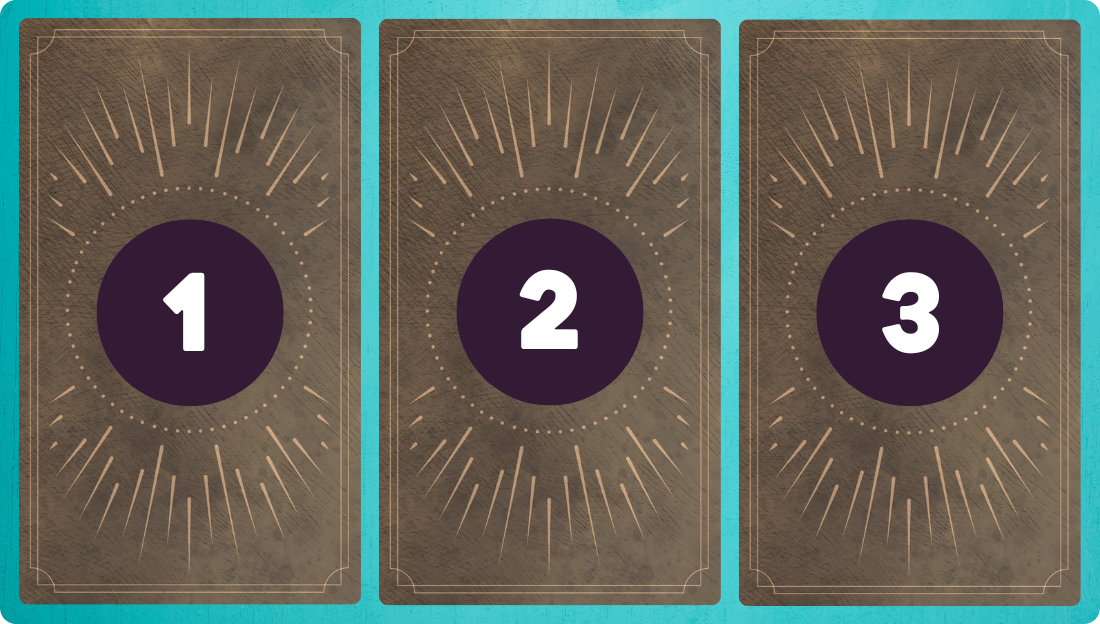
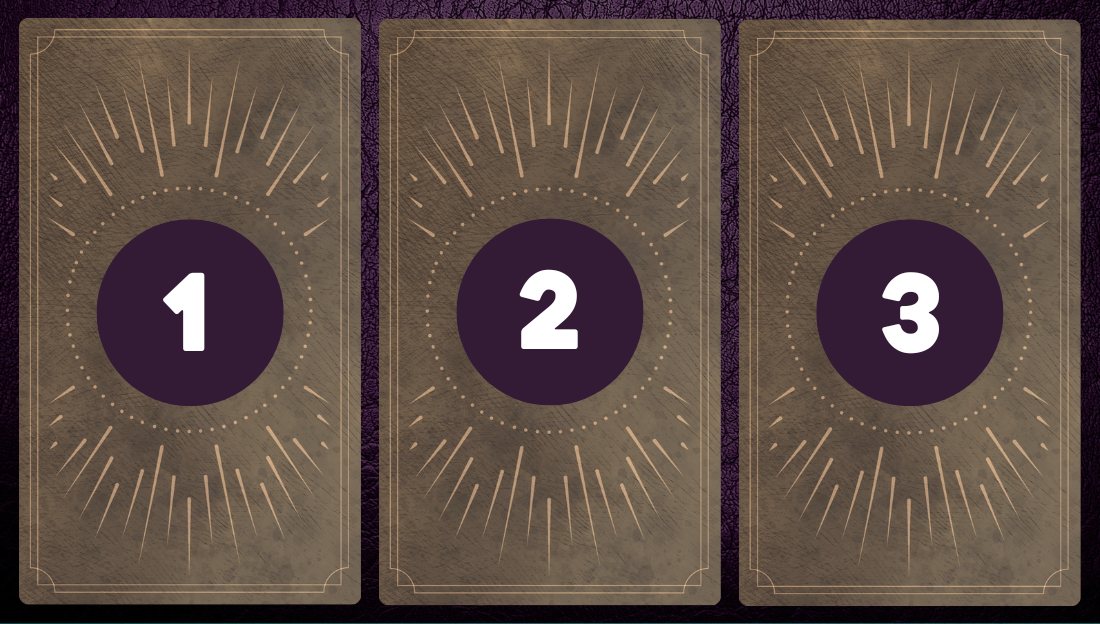
refactor: clean code on wonderPick flow

Changed region(s): [[0.0, 0.0, 1.0, 1.0]]

diff --git a/apps/bot/src/events/collectors/wonderPickSelect.ts b/apps/bot/src/events/collectors/wonderPickSelect.ts
@@ -1,4 +1,5 @@
-import { getImage } from '~/utils';
+import { BACK_IMG_URL, BG_IMG_URL, FOIL_IMG_URL, RESULT_WONDER_PICK_IMG_NAME } from '~/common';
+import { mergeImages } from '~/utils';
 import type { UserCardWithCard } from '../../commands/tcg/open-pack';
 import type { ButtonInteraction, SelectMenuInteraction, StringSelectMenuInteraction, TextChannel } from 'discord.js';
 import { AttachmentBuilder, ComponentType } from 'discord.js';
@@ -25,10 +26,6 @@ export const wonderPickSelect = ({ interaction, cards }: WonderPickSelectOptions
         const selectedCardIndex = parseInt(selectedValue, 10) - 1; // Convertir a índice
         const selectedCard = cards[selectedCardIndex];
 
-        console.log('** selectedCard **', selectedCard);
-        console.log('** selectedCardIndex **', selectedCardIndex);
-        console.log('** selectedValue **', selectedValue);
-
         if (!selectedCard) {
           await selectInteraction.editReply({
             content: 'La carta seleccionada no está disponible.',
@@ -36,16 +33,22 @@ export const wonderPickSelect = ({ interaction, cards }: WonderPickSelectOptions
           return;
         }
 
-        // Enviar la carta seleccionada al usuario
-        const cardImageBuffer = await getImage(selectedCard.card.image);
-        // console.log('** cardImageBuffer **', cardImageBuffer);
-        const cardAttachment = new AttachmentBuilder(cardImageBuffer, { name: 'selected-card.png' });
+        const totalCards = cards.length;
+        const imageUrls: Array<string> = [];
+        const foilFlags: Array<boolean> = [];
 
-        //console.log('** cardAttachment **', cardAttachment);
+        for (let i = 0; i < totalCards; i++) {
+          imageUrls.push(i === selectedCardIndex ? selectedCard.card.image : BACK_IMG_URL);
+          foilFlags.push(i === selectedCardIndex ? selectedCard.isFoil : false);
+        }
+
+        // Convert the image to buffer
+        const buffer = await mergeImages(imageUrls, foilFlags, FOIL_IMG_URL, BG_IMG_URL);
+        const attachment = new AttachmentBuilder(buffer, { name: RESULT_WONDER_PICK_IMG_NAME });
 
         await selectInteraction.editReply({
           content: `¡Has seleccionado la carta número ${selectedValue}! Es **${selectedCard.card.name}**.`,
-          files: [cardAttachment],
+          files: [attachment],
           components: [],
         });
       } catch (error) {
@@ -57,14 +60,33 @@ export const wonderPickSelect = ({ interaction, cards }: WonderPickSelectOptions
     })();
   });
 
-  selectCollector?.on('end', (collected) => {
-    if (collected.size === 0) {
-      interaction
-        .editReply({
-          content: 'No seleccionaste ninguna carta.',
-          components: [],
-        })
-        .catch((error) => console.error('Error al editar el mensaje:', error));
-    }
+  selectCollector?.on('end', () => {
+    void (async (collected) => {
+      if (collected.size === 0) {
+        try {
+          // If the interaction has not been replied to, we can use reply()
+          if (!interaction.ephemeral && !interaction.deferred && !interaction.replied) {
+            await interaction.reply({
+              content: 'No seleccionaste ninguna carta.',
+              ephemeral: true,
+            });
+            // If the interaction was deferred but not replied to, we can use editReply()
+          } else if (interaction.deferred && !interaction.replied) {
+            await interaction.editReply({
+              content: 'No seleccionaste ninguna carta.',
+              components: [],
+            });
+            // If the interaction has been replied to, we use followUp()
+          } else {
+            await interaction.followUp({
+              content: 'No seleccionaste ninguna carta.',
+              ephemeral: true,
+            });
+          }
+        } catch (error) {
+          console.error('Error al enviar mensaje al usuario:', error);
+        }
+      }
+    })(selectCollector?.collected);
   });
 };

diff --git a/apps/bot/src/events/collectors/wonderPickButton.ts b/apps/bot/src/events/collectors/wonderPickButton.ts
@@ -22,13 +22,29 @@ export const wonderPickButtonId = 'wonder-pick-button';
 export const wonderPickButton = ({ interaction, cards }: WonderPickOptions): void => {
   const buttonCollector = (interaction.channel as TextChannel)?.createMessageComponentCollector({
     componentType: ComponentType.Button,
-    filter: (i: ButtonInteraction) => i.customId === wonderPickButtonId,
+    filter: (i: ButtonInteraction) => {
+      if (i.customId !== wonderPickButtonId) return false;
+
+      if (i.user.id === interaction.user.id) {
+        void i.reply({
+          content: 'Ya tu obtuviste tus cartas. El wonder pick de este sobre, solo puede ser usado por otros usuarios.',
+          ephemeral: true,
+        });
+        return false;
+      }
+
+      return true;
+    },
   });
 
   buttonCollector?.on('collect', (buttonInteraction: ButtonInteraction) => {
     void (async () => {
       try {
         await buttonInteraction.deferReply({ ephemeral: true });
+
+        // Create a Discord attachment and send the image
+        const buffer = await getImage(WONDER_PICK_IMG_URL);
+        const attachment = new AttachmentBuilder(buffer, { name: WONDER_PICK_IMG_URL });
 
         // Create the Select Menu
         const selectMenu = new StringSelectMenuBuilder()
@@ -50,10 +66,6 @@ export const wonderPickButton = ({ interaction, cards }: WonderPickOptions): voi
           ]);
 
         const actionRow = new ActionRowBuilder<StringSelectMenuBuilder>().addComponents(selectMenu);
-
-        // Create a Discord attachment and send the image
-        const buffer = await getImage(WONDER_PICK_IMG_URL);
-        const attachment = new AttachmentBuilder(buffer, { name: WONDER_PICK_IMG_URL });
 
         await buttonInteraction.editReply({
           files: [attachment],

diff --git a/apps/bot/src/commands/tcg/open-pack.ts b/apps/bot/src/commands/tcg/open-pack.ts
@@ -1,7 +1,7 @@
 import type { Card, UserCard } from '@discord-bot/db';
 import { ErrorMessages, type ErrorCode } from '@discord-bot/error-handler';
 import { api, Response } from '~/api';
-import { BG_IMG_URL, FOIL_IMG_URL, RESULT_IMG_NAME } from '~/common';
+import { BG_IMG_URL, FOIL_IMG_URL, RESULT_OPEN_PACK_IMG_NAME } from '~/common';
 import { wonderPickButton, wonderPickButtonId } from '~/events/collectors';
 import { openPackMsg } from '~/messages';
 import { formatMsg, mergeImages } from '~/utils';
@@ -55,7 +55,7 @@ const command = {
       const buffer = await mergeImages(imageUrls, foilFlags, FOIL_IMG_URL, BG_IMG_URL);
 
       // Create a Discord attachment and send the image
-      const attachment = new AttachmentBuilder(buffer, { name: RESULT_IMG_NAME });
+      const attachment = new AttachmentBuilder(buffer, { name: RESULT_OPEN_PACK_IMG_NAME });
 
       const msg = formatMsg(openPackMsg.description, {
         discordId,

diff --git a/apps/bot/src/common/constants/cardImage.ts b/apps/bot/src/common/constants/cardImage.ts
@@ -1,5 +1,7 @@
+export const BACK_IMG_URL = 'https://i.imgur.com/6WQjAKP.png';
 export const BG_IMG_URL = 'https://i.imgur.com/4JJ2x0C.png';
-export const WONDER_PICK_IMG_URL = 'https://i.imgur.com/cdS1zgg.png';
+export const WONDER_PICK_IMG_URL = 'https://i.imgur.com/LpVY7Z5.png';
 export const FOIL_IMG_URL = 'https://i.imgur.com/tTjHxdU.png';
-export const RESULT_IMG_NAME = 'cards.png';
+export const RESULT_OPEN_PACK_IMG_NAME = 'cards.png';
+export const RESULT_WONDER_PICK_IMG_NAME = 'selected-card.png';
 export const MIME_TYPE = 'image/png';
